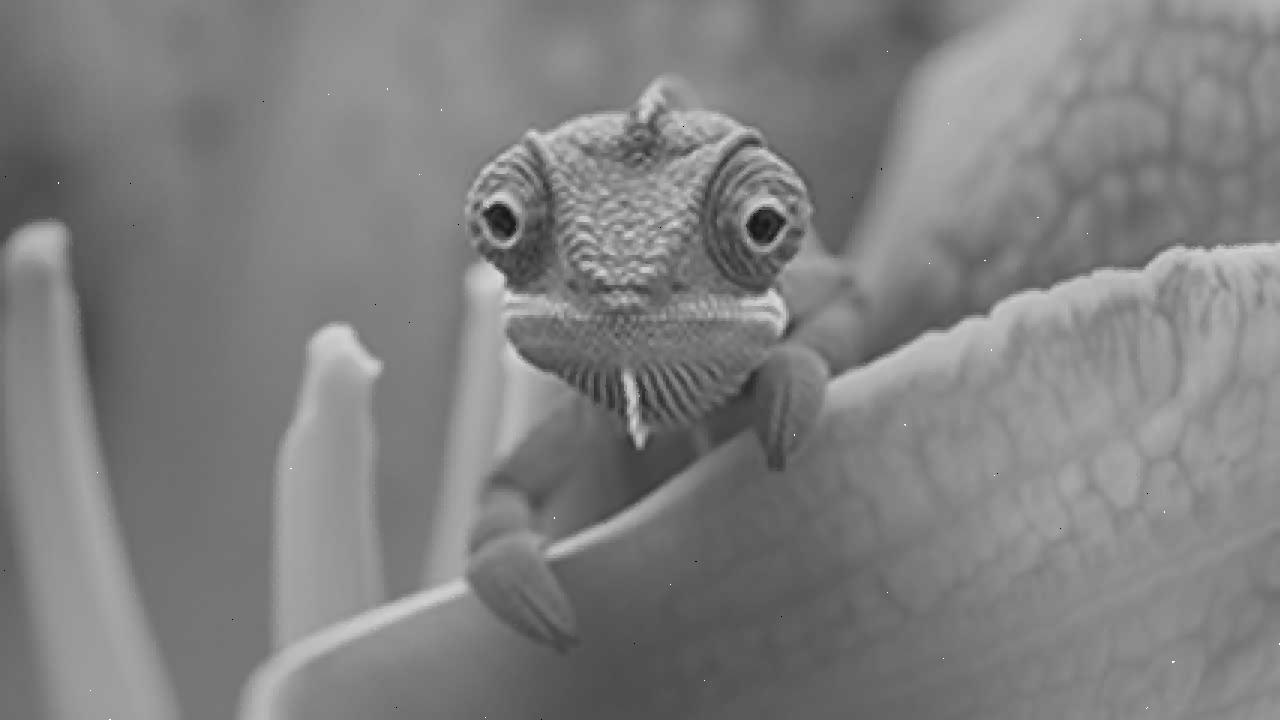
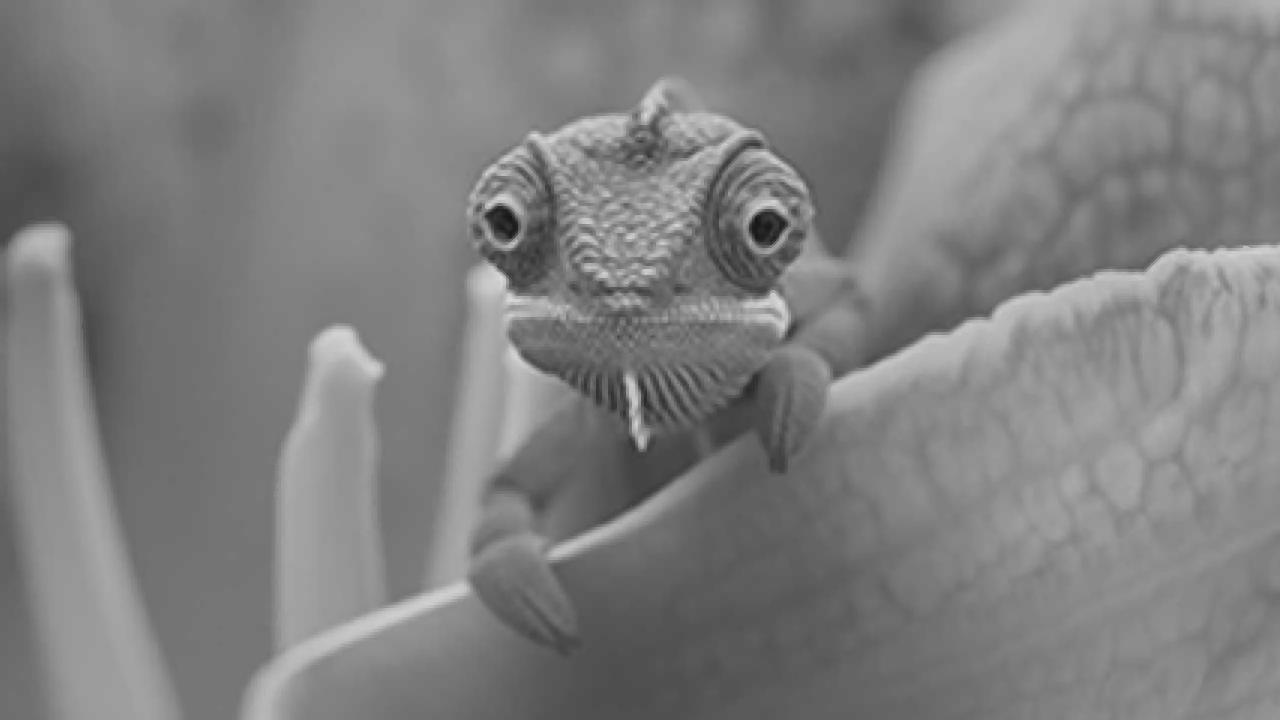
filtro mediano adattivo (4)

diff --git a/filters.py b/filters.py
@@ -72,3 +72,46 @@ def median_filter(image, kernel_size=3):
             filtered_image[i, j] = median_value
 
     return filtered_image
+
+
+
+def adaptive_median_filter(image, max_kernel_size=7):
+    """
+    Applica un filtro mediano adattivo.
+    - max_kernel_size: dimensione massima della finestra (es. 7)
+    """
+    padded_image = np.pad(image, max_kernel_size // 2, mode='edge')
+    filtered_image = np.zeros_like(image)
+    height, width = image.shape
+
+    for i in range(height):
+        for j in range(width):
+            current_size = 3
+            pixel_filtered = False
+
+            while current_size <= max_kernel_size and not pixel_filtered:
+                pad = current_size // 2
+                region = padded_image[i:i+current_size, j:j+current_size]
+                z_min = np.min(region)
+                z_max = np.max(region)
+                z_med = np.median(region)
+                z_xy = padded_image[i + pad, j + pad]
+
+                A1 = z_med - z_min
+                A2 = z_med - z_max
+
+                if A1 > 0 and A2 < 0:
+                    B1 = z_xy - z_min
+                    B2 = z_xy - z_max
+                    if B1 > 0 and B2 < 0:
+                        filtered_image[i, j] = z_xy  # pixel non rumoroso
+                    else:
+                        filtered_image[i, j] = z_med  # pixel rumoroso → sostituito
+                    pixel_filtered = True
+                else:
+                    current_size += 2  # aumenta dimensione finestra
+
+            if not pixel_filtered:
+                filtered_image[i, j] = z_med  # fallback: usa il mediano finale
+
+    return filtered_image

diff --git a/main.py b/main.py
@@ -1,5 +1,5 @@
 from utils import load_image, save_image, create_output_folder, add_noise
-from filters import mean_filter, gaussian_filter,median_filter
+from filters import mean_filter, gaussian_filter,median_filter,adaptive_median_filter
 import numpy as np
 
 def main():
@@ -14,7 +14,7 @@ def main():
     image = load_image(input_path)
 
     #  Aggiungi rumore artificiale (es. gaussiano)
-    noisy_image = add_noise(image, noise_type="salt_pepper", amount=10)
+    noisy_image = add_noise(image, noise_type="salt_pepper", amount=15)
     save_image(noisy_image, noisy_path)
 
   
@@ -28,8 +28,13 @@ def main():
     #filtro_descrizione = "Filtro Gaussiano (5x5, σ = 1.0)"
 
     # Filtro Mediano
-    filtered_image = median_filter(noisy_image, kernel_size=3)
-    filtro_descrizione = "Filtro Mediano (3x3)"
+    #filtered_image = median_filter(noisy_image, kernel_size=3)
+    #filtro_descrizione = "Filtro Mediano (3x3)"
+
+    # Filtro Mediano Adattivo
+    filtered_image = adaptive_median_filter(image, max_kernel_size=7)
+    filtro_descrizione = "Filtro Mediano Adattivo (fino a 7x7)"
+
 
 
     save_image(filtered_image, output_image_path)
